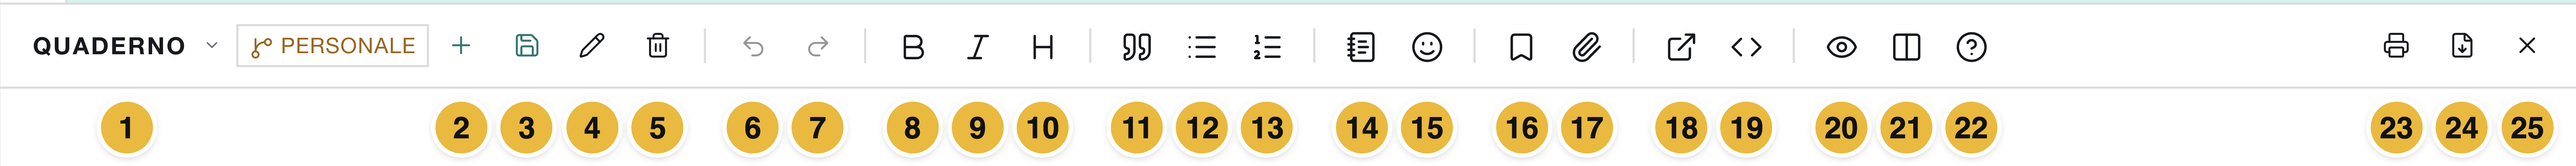
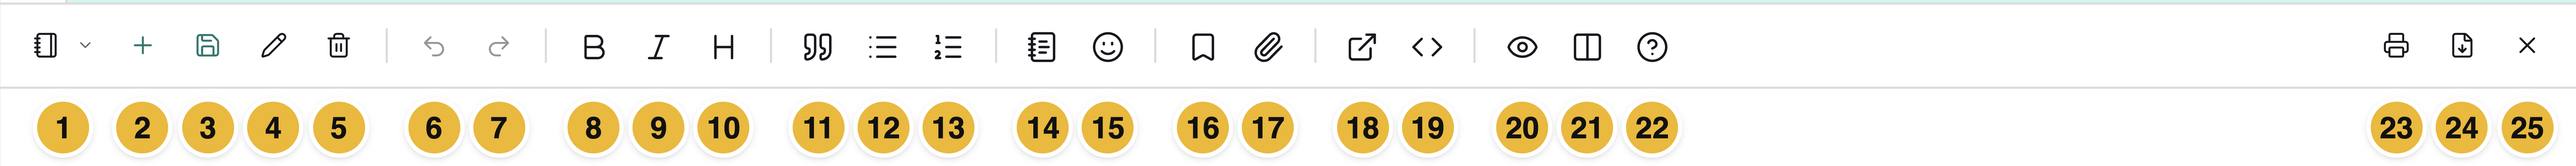
Allinea i comandi e compatta la toolbar degli appunti

diff --git a/App/StudIA.html b/App/StudIA.html
@@ -1286,7 +1286,6 @@
      gli altri e va a capo solo se non ci sta — che è ciò che fa `.tbar`. */
   :is(#noteHost,#noteHost2) .editor-toolbar .notectl{ display:flex; align-items:center; gap:0;
     flex:0 0 auto; min-width:0; }
-  :is(#noteSelect,#noteSelect2){ flex:0 1 auto; min-width:70px; }
   /* Sotto una certa larghezza i separatori sono spazio sprecato. La soglia guarda il
      RIQUADRO, non la finestra: il dock può essere stretto con la finestra larga. */
   :is(#notePane,#notePane2){ container-type:inline-size; container-name:appunti; }
@@ -1296,12 +1295,7 @@
   }
   @container appunti (max-width:360px){
     :is(#noteHost,#noteHost2) .editor-toolbar .notectl .tbsep{ margin:0 .2rem; }   /* riquadro strettissimo: gruppi più fitti */
-    :is(#noteSelect,#noteSelect2){ max-width:120px; }
   }
-  /* Idem: misure dal token. ⚠ Prima questi bottoni erano senza bordo e alti
-     26px, quelli della mappa bordati e alti 30: due barre che fanno lo stesso
-     mestiere e sembravano di due app diverse. */
-  :is(#noteSelect,#noteSelect2){ max-width:clamp(90px,26%,190px); }
   /* l'appunto aperto non è di questo capitolo: dirlo, invece di lasciarlo capire */
   :is(#noteHost,#noteHost2) .editor-toolbar .notectl .nwhere{ font-size:10px; letter-spacing:.04em; white-space:nowrap;
     color:var(--yellow-strong); border:1px solid var(--line); padding:.05rem .3rem; cursor:help;
@@ -9404,7 +9398,7 @@ function tendinaViva(sel, opt){
   if(!sel || sel.dataset.tendina==='1') return;
   var o=opt||{};
   var guscio=document.createElement('span');
-  guscio.className='tendina'+(o.fissa?'':' viva')+(o.piccola?' piccola':'');
+  guscio.className='tendina'+(o.fissa?'':' viva')+(o.piccola?' piccola':'')+(o.icona?' tendina-icona':'');
   var lab=document.createElement('span'); lab.className='tlab';
   sel.parentNode.insertBefore(guscio, sel);
   guscio.appendChild(lab); guscio.appendChild(sel);
@@ -9419,7 +9413,8 @@ function tendinaViva(sel, opt){
        tagliato non direbbe niente.
        Etichetta VIVA: dice che cosa è scelto, e serve dove la tendina è l'unico
        posto in cui lo si legge — la testata di un blocco del banco. */
-    lab.textContent=o.fissa || t;
+    if(o.icona) lab.innerHTML=UiIcone.svg(o.icona);
+    else lab.textContent=o.fissa || t;
     /* Il `title` porta comunque il testo intero: l'etichetta o è fissa o è
        tagliata, e su un nome di mappa lungo il taglio cade quasi sempre dove
        serviva leggere. */
@@ -11181,8 +11176,8 @@ function znavRaccolta(sezione, titolo, voci, vuoto, errore, erroreGruppi){
     }).join('')+'</ul>';
   }
   var h='<section class="zs-raccolta" data-sezione="'+sezione+'"><div class="zs-tit"><button type="button" class="zs-collapse" data-znav="sezione" aria-expanded="'+!chiusa+'" aria-controls="zs-corpo-'+sezione+'" title="'+(chiusa?'Espandi ':'Comprimi ')+titolo+'"><span aria-hidden="true">'+UiIcone.svg(chiusa?'chevron-right':'chevron-down')+'</span><span>'+titolo+'</span><span class="zs-n">'+voci.length+'</span></button><span class="zs-azioni">'+
-    znavComandoHtml('ordina',ZNAV.ordine[sezione]==='az'?'Z–A':'A–Z','Ordina '+(ZNAV.ordine[sezione]==='az'?'Z–A':'A–Z'),'',!modificabile)+
     (edit?znavComandoHtml('crea','+',selezione.length?'Crea gruppo con '+selezione.length+' voci selezionate':'Crea gruppo di '+titolo.toLowerCase(),'data-aiuto="'+znavEsc(aiuto)+'" aria-describedby="znavAiuto"'):'')+
+    znavComandoHtml('ordina',ZNAV.ordine[sezione]==='az'?'Z–A':'A–Z','Ordina '+(ZNAV.ordine[sezione]==='az'?'Z–A':'A–Z'),'',!modificabile)+
     '<button type="button" class="tbtn" data-znav="organizza" title="Organizza '+titolo.toLowerCase()+'" aria-label="Organizza '+titolo.toLowerCase()+'" aria-pressed="'+edit+'"'+(erroreGruppi||errore?' disabled':'')+'>'+UiIcone.svg(edit?'check':'pencil')+'</button></span></div><div class="zs-corpo" id="zs-corpo-'+sezione+'"'+(chiusa?' hidden':'')+'>';
   if(errore) return h+'<div class="zs-vuoto zs-no">'+UiIcone.svg('triangle-alert','Errore di lettura')+' '+znavEsc(errore)+'</div></div></section>';
   if(erroreGruppi) h+='<div class="zs-vuoto zs-no">Organizzazione non leggibile: '+znavEsc(erroreGruppi)+'</div>';
@@ -12196,7 +12191,7 @@ function ensureMde(s){
   var altri=document.createElement('button');altri.type='button';altri.className='tbtn ncb-more no-disable';
   function altriStato(aperti){
     var nome=aperti?'Meno strumenti':'Altri strumenti';
-    altri.innerHTML=UiIcone.svg('chevrons-right')+'<span>'+nome+'</span>';
+    altri.innerHTML=UiIcone.svg('chevrons-right');
     altri.title=nome;altri.setAttribute('aria-label',nome);altri.setAttribute('aria-expanded',String(aperti));
   }
   altriStato(false);
@@ -13492,7 +13487,7 @@ function refreshNoteUI(s){
      quelli del corso, e il nome di quello aperto vive nel `title` e nel testo
      stesso dell'appunto. Un'etichetta viva qui diceva «nessun appunto» a
      schermo, cioè occupava un bottone per annunciare un vuoto. */
-  tendinaViva(sel, { piccola:true, fissa:'Quaderno' });
+  tendinaViva(sel, { piccola:true, fissa:'Quaderno', icona:'notebook' });
   var ctx=curCtx();
   var g=noteGroups(NOTES.list, ctx, s.cur);
   /* Nello zaino «qui» non vuol dire «questo capitolo» ma «questo documento» —
@@ -13523,6 +13518,7 @@ function refreshNoteUI(s){
     sel.value=''; sel.title=NOTES.listError ? ('Lettura degli appunti fallita: '+NOTES.listError)
               : (zaino ? 'Appunti di questo zaino' : 'Appunti di questo capitolo');
   }
+  sel.title='Apri un appunto · '+sel.title;
   // dove sta l'appunto aperto, quando non è di quello che stai leggendo
   var d=noteEl('noteDirty',s); if(d) d.hidden=!s.dirty;
   ['noteSave','noteRen','noteDel','noteStampa','notePdf','noteClose'].forEach(function(id){ var b=noteEl(id,s); if(b) b.disabled=!s.cur; });

diff --git a/test/cdp/prova-toolbar-essenziali.js b/test/cdp/prova-toolbar-essenziali.js
@@ -5,7 +5,7 @@ async function wait(expr){for(let i=0;i<160;i++){if(await c.val(expr))return;awa
 (async()=>{
  await c.collega();await wait(`typeof bancoStato==='function' && !!window.zainoStudio`);
  assert((await c.val('window.vault.path')).includes('studia-zaino-prova-'));
- const prima=await c.val(`({banco:bancoStato(),attivo:BANCO.attivo,tema:document.documentElement.dataset.theme,storage:{...localStorage}})`);
+ const prima=await c.val(`({banco:bancoStato(),attivo:BANCO.attivo,tema:document.documentElement.dataset.theme,organizza:{...ZNAV.organizza},storage:{...localStorage}})`);
  const evFile=path.join(await c.val('window.vault.path'),'Zaini/biologia/APPUNTI/_evidenze.json'),evPrima=fs.existsSync(evFile)?fs.readFileSync(evFile):null;
  try{
   await c.partiPulito();await c.val(`cambiaZaino('storia',true);cambiaZaino('biologia',true);bancoForma('due-col');bancoAssegna('A','fonte');bancoAssegna('C','appunti')`);
@@ -14,6 +14,19 @@ async function wait(expr){for(let i=0;i<160;i++){if(await c.val(expr))return;awa
   await wait(`NOTES.list.length>0 && !!NOTES.mde`);
   const file=await c.val(`NOTES.list[0].file`);await c.val(`noteOpen(${q(file)},NOTES)`);
   const body=await c.val(`NOTES.mde.value()`);assert(body);
+  await c.val(`ZNAV.organizza.fonti=true;ZNAV.organizza.media=true;zainoNavAggiorna()`);
+  await wait(`!!document.querySelector('[data-sezione="fonti"] .zs-tit [data-znav="crea"]')`);
+  assert(await c.val(`['fonti','media'].every(s=>Array.from(document.querySelectorAll('[data-sezione="'+s+'"] .zs-tit .zs-azioni button')).map(b=>b.dataset.znav).join(',')==='crea,ordina,organizza')`),'sidebar: + prima di A–Z, ordinamento accanto alla matita');
+  await c.val(`ZNAV.organizza.fonti=false;ZNAV.organizza.media=false;zainoNavAggiorna()`);
+  const quaderni=await c.val(`(()=>{ensureMde(noteStati()[1]);return ['noteSelect','noteSelect2'].map(id=>{const s=document.getElementById(id),g=s.closest('.tendina');return {id,icona:!!g.querySelector('.tlab svg[data-icona="notebook"]'),testo:g.querySelector('.tlab').textContent,tooltip:g.title,nome:s.getAttribute('aria-label'),select:s.getBoundingClientRect().width,guscio:g.getBoundingClientRect().width};});})()`);
+  assert(quaderni.every(g=>g.icona&&!g.testo.trim()&&g.tooltip.includes('Quaderno')&&g.nome&&g.select<=g.guscio+1),'Quaderno: icona, tooltip e area cliccabile confinata: '+JSON.stringify(quaderni));
+  const layout=await c.val('bancoStato().col');
+  for(const larghezza of [420,280]){
+   await c.val(`BANCO.stato.col=1-${larghezza}/document.getElementById('banco').getBoundingClientRect().width;bancoDisegna()`);await c.pausa(150);
+   assert(await c.val(`(()=>{const b=document.querySelector('#noteHost .ncb-more');return !!b.getClientRects().length&&!!b.querySelector('svg[data-icona="chevrons-right"]')&&getComputedStyle(b.querySelector('svg')).display!=='none'&&!b.textContent.trim()&&b.title==='Altri strumenti'&&b.getAttribute('aria-label')===b.title;})()`),'toolbar a '+larghezza+'px: solo doppio chevron con tooltip');
+  }
+  const compatta=await c.invia('Page.captureScreenshot',{format:'png'});fs.writeFileSync('/tmp/zaino-toolbar-quaderno.png',Buffer.from(compatta.result.data,'base64'));
+  await c.val(`BANCO.stato.col=${q(layout)};bancoDisegna()`);
   assert(await c.val(`['.bold','.italic','.heading','.quote','.unordered-list','.ordered-list','.link','.code','.preview','.side-by-side','.ncb-undo','.ncb-redo','.ncb-callout','.ncb-emoji','.ncb-guida','.ncb-cita','.ncb-mat'].every(sel=>{const b=document.querySelector('#noteHost .editor-toolbar '+sel);return b?.querySelector('svg.ui-icon')&&b.title;})`),'Appunti: tutti i simboli sono SVG con tooltip');
   assert(await c.val(`(()=>{const b=document.querySelector('#noteHost .editor-toolbar .bold');return b.title.startsWith('Grassetto (')&&b.getAttribute('aria-label')===b.title;})()`),'tooltip e nome accessibile in italiano, con scorciatoia');
   assert(await c.val(`!!document.querySelector('#menuBtn img.oi') && !!document.querySelector('#creditsBtn .btn-emoji') && !!document.querySelector('#modoBtn img.oi')`),'fantasma, mago e marchio conservati');
@@ -89,6 +102,6 @@ async function wait(expr){for(let i=0;i<160;i++){if(await c.val(expr))return;awa
   assert.deepEqual(await c.val(`[...document.querySelectorAll('button svg:not(.ui-icon)')].map(s=>s.closest('button').id)`),[],'i simboli dei comandi provengono tutti da Lucide');
  }finally{
   if(evPrima)fs.writeFileSync(evFile,evPrima);else fs.rmSync(evFile,{force:true});
-  await c.val(`document.getElementById('settingsClose').click();if(window.__toolbarFlush)noteFlushStato=window.__toolbarFlush;localStorage.clear();Object.entries(${q(prima.storage)}).forEach(([k,v])=>localStorage.setItem(k,v));EVIDENZE.viste=null;evidenzeCarica();KW.ordine={criterio:'alfa',verso:'asc'};keywordDisegna();BANCO.stato=${q(prima.banco)};BANCO.attivo=${q(prima.attivo)};document.documentElement.dataset.theme=${q(prima.tema)};bancoSalva();bancoDisegna()`);}
+  await c.val(`document.getElementById('settingsClose').click();if(window.__toolbarFlush)noteFlushStato=window.__toolbarFlush;localStorage.clear();Object.entries(${q(prima.storage)}).forEach(([k,v])=>localStorage.setItem(k,v));ZNAV.organizza=${q(prima.organizza)};zainoNavAggiorna();EVIDENZE.viste=null;evidenzeCarica();KW.ordine={criterio:'alfa',verso:'asc'};keywordDisegna();BANCO.stato=${q(prima.banco)};BANCO.attivo=${q(prima.attivo)};document.documentElement.dataset.theme=${q(prima.tema)};bancoSalva();bancoDisegna()`);}
  console.log('toolbar essenziali: trasparenza, chiusura documenti, strumenti e SVG OK');process.exit(0);
 })().catch(e=>{console.error(e);process.exit(1);});

diff --git a/App/guida-zaino/index.html b/App/guida-zaino/index.html
@@ -487,7 +487,7 @@
           <li><strong>Aggiungi parole chiave, ritagli e immagini.</strong> Trascina un chip delle Parole chiave dentro l'appunto. Trascina una scheda dei Ritagli o dell'Album Foto. → <a href="#am-importare">Importare</a></li>
           <li><strong>Rileggi.</strong> Il pulsante <strong>Occhio</strong> (<kbd>⌘J</kbd>) mostra l'appunto come si legge. Il pulsante <strong>Colonne affiancate</strong> (<kbd>F9</kbd>) mette il testo e la lettura uno accanto all'altro. → <a href="#am-anteprima-scrivere">Scrivere nell'anteprima</a></li>
           <li><strong>Controlla il salvataggio.</strong> L’appunto si salva da solo. Leggi gli eventuali avvisi. → <a href="#am-salvataggio">Il salvataggio</a></li>
-          <li><strong>Ritrova un appunto.</strong> La tendina <strong>«QUADERNO ▾»</strong> elenca gli appunti. La lente in alto cerca anche dentro gli appunti. → <a href="#finestra-lente">La lente</a></li>
+          <li><strong>Ritrova un appunto.</strong> Il menu con l’<strong>icona del quaderno</strong> elenca gli appunti. La lente in alto cerca anche dentro gli appunti. → <a href="#finestra-lente">La lente</a></li>
         </ol>
         <div class="tabwrap">
         <table>
@@ -656,7 +656,7 @@
         <h3 id="finestra-paralleli">Due documenti o due appunti insieme</h3>
         <p>Puoi aprire due documenti insieme, oppure due appunti insieme. Scegli <strong>Fonti</strong> (o <strong>Appunti</strong>) nella testata di due blocchi diversi. Poi scegli il file dalla tendina di ciascun blocco. Ogni blocco tiene il suo file e la sua pagina.</p>
         <figure class="fig-intera"><img src="img/187-materiali-paralleli.png" alt="Quattro blocchi con due documenti e due appunti diversi" loading="lazy"><figcaption><b>Quattro materiali insieme.</b> Due documenti e due appunti, ognuno nel suo blocco.</figcaption></figure>
-        <p>I due appunti hanno gli stessi comandi, ma salvataggi e cronologie separati. Clicca nell’appunto che deve ricevere il testo prima di usare «Appunta». Nel menu <strong>Quaderno</strong> puoi scegliere anche un appunto già aperto nell’altro split: la voce «sposta qui» lo trasferisce, lasciando vuoto l’editor di partenza. Testo, cronologia e posizione seguono l’appunto. L’eventuale appunto sostituito viene prima salvato. Una bozza senza nome o un errore di salvataggio fermano il trasferimento.</p>
+        <p>I due appunti hanno gli stessi comandi, ma salvataggi e cronologie separati. Clicca nell’appunto che deve ricevere il testo prima di usare «Appunta». Nel menu <strong>Quaderno</strong>, riconoscibile dall’icona del quaderno, puoi scegliere anche un appunto già aperto nell’altro split: la voce «sposta qui» lo trasferisce, lasciando vuoto l’editor di partenza. Testo, cronologia e posizione seguono l’appunto. L’eventuale appunto sostituito viene prima salvato. Una bozza senza nome o un errore di salvataggio fermano il trasferimento.</p>
 
         <p>La seconda fonte ha pagina e zoom indipendenti. Per evidenziare, annotare o ritagliare usa la prima fonte.</p>
 
@@ -884,13 +884,13 @@
         </div>
 
         <h3 id="str-appunti">Appunti: dove scrivi</h3>
-        <p>Negli split stretti, <strong>Altri strumenti</strong> raccoglie i comandi aggiuntivi. Se lo spazio si riduce ancora, diventa l’icona a doppia freccia <strong>»</strong>, con lo stesso suggerimento al passaggio del mouse. Premi di nuovo, oppure <kbd>Esc</kbd>, per richiudere gli strumenti aggiuntivi.</p>
+        <p>Negli split stretti, l’icona a doppia freccia <strong>»</strong> raccoglie sempre i comandi aggiuntivi. Il suggerimento «Altri strumenti» compare al passaggio del mouse. Premi di nuovo, oppure <kbd>Esc</kbd>, per richiudere gli strumenti aggiuntivi.</p>
         <figure class="fig-intera">
           <img src="img/50-notebar-numerata.png" alt="La barra degli appunti con venticinque comandi numerati" loading="lazy">
           <figcaption><b>La barra degli appunti.</b> Nell'immagine è su una riga sola. In un blocco stretto va a capo.</figcaption>
         </figure>
         <ol class="legenda">
-          <li data-n="1"><strong>«QUADERNO ▾»</strong> — dice quale appunto è aperto. Premilo per aprirne un altro.</li>
+          <li data-n="1"><strong>Quaderno (icona)</strong> — apre l’elenco degli appunti. Il suggerimento mostra il nome; la testata dello split indica l’appunto aperto.</li>
           <li data-n="2"><strong>+</strong> — crea un appunto nuovo.</li>
           <li data-n="3"><strong>Salva</strong> — salva (<kbd>⌘S</kbd>). L'appunto si salva anche da solo.</li>
           <li data-n="4"><strong>Matita</strong> — rinomina l'appunto e cambia il documento a cui appartiene.</li>
@@ -1145,7 +1145,7 @@
         </div>
         <p>C'è anche una scorciatoia. Comincia a scrivere senza creare l'appunto. Alla quinta parola l'app ti chiede il titolo. Quello che hai scritto diventa il testo dell'appunto. ⚠ Se annulli, l'appunto non viene salvato.</p>
 
-        <h3 id="am-tendina">La tendina «QUADERNO ▾»</h3>
+        <h3 id="am-tendina">Il menu Quaderno</h3>
         <figure class="fig-pannello">
           <img src="img/52-tendina-quaderno.png" alt="La tendina degli appunti aperta, con due gruppi" loading="lazy">
           <figcaption><b>La tendina degli appunti.</b> Prima ci sono gli appunti del documento aperto. Poi «Altri appunti dello zaino», con accanto il documento di ciascuno. Nell'immagine la tendina è ridisegnata.</figcaption>

diff --git a/bin/icone-ui.js b/bin/icone-ui.js
@@ -1,7 +1,7 @@
 /* Incorpora solo le icone usate: node bin/icone-ui.js /percorso/lucide-static-1.61.0/package */
 'use strict';
 const fs=require('fs'),path=require('path'),dir=process.argv[2];
-const names=["link", "eye", "eye-off", "pencil", "trash-2", "plus", "minus", "x", "chevron-left", "chevron-right", "chevron-up", "chevron-down", "calendar-days", "search", "scissors", "layers", "ruler", "palette", "play", "square", "printer", "file-down", "undo-2", "redo-2", "settings", "maximize", "move-horizontal", "arrow-down", "arrow-right", "network", "list-filter", "scan-text", "panel-top", "panels-top-left", "route", "maximize-2", "list-tree", "pause", "rotate-ccw", "check", "circle-check", "circle-x", "target", "graduation-cap", "lightbulb", "star", "book-open", "brain", "volume-2", "type", "import", "download", "library", "sun", "moon", "message-square", "columns-2", "save", "smile", "quote", "bookmark", "paperclip", "bold", "italic", "heading", "list", "list-ordered", "code", "help-circle", "chevrons-left", "chevrons-right", "music", "video", "image", "file-text", "arrow-up", "copy", "git-branch", "notebook-pen", "notebook-text", "lock-keyhole", "unlock-keyhole", "circle-alert", "triangle-alert", "info", "puzzle", "list-todo", "eraser", "highlighter", "underline", "pilcrow", "external-link", "chart-column", "refresh-cw", "panel-left", "panel-left-close", "panel-left-open", "zoom-in", "zoom-out", "chevron-last", "chevron-first"];
+const names=["link", "eye", "eye-off", "pencil", "trash-2", "plus", "minus", "x", "chevron-left", "chevron-right", "chevron-up", "chevron-down", "calendar-days", "search", "scissors", "layers", "ruler", "palette", "play", "square", "printer", "file-down", "undo-2", "redo-2", "settings", "maximize", "move-horizontal", "arrow-down", "arrow-right", "network", "list-filter", "scan-text", "panel-top", "panels-top-left", "route", "maximize-2", "list-tree", "pause", "rotate-ccw", "check", "circle-check", "circle-x", "target", "graduation-cap", "lightbulb", "star", "book-open", "brain", "volume-2", "type", "import", "download", "library", "sun", "moon", "message-square", "columns-2", "save", "smile", "quote", "bookmark", "paperclip", "bold", "italic", "heading", "list", "list-ordered", "code", "help-circle", "chevrons-left", "chevrons-right", "music", "video", "image", "file-text", "arrow-up", "copy", "git-branch", "notebook-pen", "notebook-text", "notebook", "lock-keyhole", "unlock-keyhole", "circle-alert", "triangle-alert", "info", "puzzle", "list-todo", "eraser", "highlighter", "underline", "pilcrow", "external-link", "chart-column", "refresh-cw", "panel-left", "panel-left-close", "panel-left-open", "zoom-in", "zoom-out", "chevron-last", "chevron-first"];
 const dati=Object.fromEntries(names.map(n=>[n,fs.readFileSync(path.join(dir,'icons',n+'.svg'),'utf8').replace(/^[\s\S]*?<svg[^>]*>/,'').replace(/<\/svg>\s*$/,'').trim()]));
 const helper=`
  function attributo(t){return String(t).replace(/[&<>"']/g,function(c){return {'&':'&amp;','<':'&lt;','>':'&gt;','"':'&quot;',"'":'&#39;'}[c];});}

diff --git a/App/guida-zaino/_lab/quaderno-compatto.js b/App/guida-zaino/_lab/quaderno-compatto.js
@@ -1,0 +1,17 @@
+'use strict';
+// Solo dati dimostrativi nel laboratorio: nessun appunto personale.
+const L=require('./lab'),fs=require('node:fs'),assert=require('node:assert/strict'),barre=require('./barre');
+(async()=>{
+ await L.collega();const vault=process.env.GUIDA_VAULT;
+ assert(vault&&fs.realpathSync(vault).startsWith('/private/tmp/studia-guida-'));
+ assert.equal(await L.val('window.vault.path'),vault);
+ await L.pulito();await L.invia('Emulation.setDeviceMetricsOverride',{width:1470,height:956,deviceScaleFactor:2,mobile:false});
+ await L.val(`bancoZoomTorna();cambiaZaino('biologia');document.documentElement.dataset.theme='chiaro';bancoForma('uno');bancoAssegna('A','appunti');notesApi().save('biologia',null,{title:'Botanica — appunti',materiale:'01 Botanica.pdf'},'Osservazioni sulle piante.');notesReload();noteOpen(NOTES.list.find(n=>!n.materiale).file,NOTES)`);
+ assert(await L.finoA(`!!NOTES.cur && !!document.querySelector('#noteSelect').closest('.tendina').querySelector('[data-icona="notebook"]')`,10000));
+ await L.pausa(600);await L.muovi(10,940);await barre.appunti(L);
+ await L.tendinaFinta('#noteSelect',{largh:320,allinea:'sinistra'});const nt=await L.rect('#noteHost .notectl .tendina');
+ await L.scatta('52-tendina-quaderno',{clip:{x:nt.x-10,y:nt.y-8,width:520,height:300},scala:2});await L.overlayPulisci();
+ await L.val(`bancoForma('due-col');bancoAssegna('A','fonte');bancoAssegna('C','appunti');closeEditor(NOTES);document.getElementById('pdfClose').click()`);await L.pausa(600);await L.muovi(10,940);
+ const area=await L.rect('#pdfPane');await L.scatta('204-strumenti-senza-documenti',{clip:{x:0,y:area.y-35,width:1470,height:290},scala:2});
+ console.log('Quaderno SVG, menu e stato vuoto acquisiti.');process.exit(0);
+})().catch(e=>{console.error(e);process.exit(1);});

diff --git a/App/assets/interfaccia/icone.js b/App/assets/interfaccia/icone.js
@@ -81,6 +81,7 @@
  "git-branch": "<path d=\"M15 6a9 9 0 0 0-9 9V3\" />\n  <circle cx=\"18\" cy=\"6\" r=\"3\" />\n  <circle cx=\"6\" cy=\"18\" r=\"3\" />",
  "notebook-pen": "<path d=\"M13.4 2H6a2 2 0 0 0-2 2v16a2 2 0 0 0 2 2h12a2 2 0 0 0 2-2v-7.4\" />\n  <path d=\"M2 6h4\" />\n  <path d=\"M2 10h4\" />\n  <path d=\"M2 14h4\" />\n  <path d=\"M2 18h4\" />\n  <path d=\"M21.378 5.626a1 1 0 1 0-3.004-3.004l-5.01 5.012a2 2 0 0 0-.506.854l-.837 2.87a.5.5 0 0 0 .62.62l2.87-.837a2 2 0 0 0 .854-.506z\" />",
  "notebook-text": "<path d=\"M2 6h4\" />\n  <path d=\"M2 10h4\" />\n  <path d=\"M2 14h4\" />\n  <path d=\"M2 18h4\" />\n  <rect width=\"16\" height=\"20\" x=\"4\" y=\"2\" rx=\"2\" />\n  <path d=\"M9.5 8h5\" />\n  <path d=\"M9.5 12H16\" />\n  <path d=\"M9.5 16H14\" />",
+ "notebook": "<path d=\"M2 6h4\" />\n  <path d=\"M2 10h4\" />\n  <path d=\"M2 14h4\" />\n  <path d=\"M2 18h4\" />\n  <rect width=\"16\" height=\"20\" x=\"4\" y=\"2\" rx=\"2\" />\n  <path d=\"M16 2v20\" />",
  "lock-keyhole": "<circle cx=\"12\" cy=\"16\" r=\"1\" />\n  <rect x=\"3\" y=\"10\" width=\"18\" height=\"12\" rx=\"2\" />\n  <path d=\"M7 10V7a5 5 0 0 1 10 0v3\" />",
  "unlock-keyhole": "<circle cx=\"12\" cy=\"16\" r=\"1\" />\n  <rect width=\"18\" height=\"12\" x=\"3\" y=\"10\" rx=\"2\" />\n  <path d=\"M7 10V7a5 5 0 0 1 9.33-2.5\" />",
  "circle-alert": "<circle cx=\"12\" cy=\"12\" r=\"10\" />\n  <line x1=\"12\" x2=\"12\" y1=\"8\" y2=\"12\" />\n  <line x1=\"12\" x2=\"12.01\" y1=\"16\" y2=\"16\" />",

diff --git a/test/cdp/prova-spostamento-split.js b/test/cdp/prova-spostamento-split.js
@@ -54,7 +54,7 @@ async function trascina(da,a){
   console.log('  ok  drag nativo, dimensioni della destinazione, tastiera e annullamento');
 
   await c.val(`BANCO.stato.col=.25;bancoSalva();bancoDisegna()`);await c.pausa(250);
-  assert(await c.val(`(()=>{const b=document.querySelector('#noteHost .ncb-more');return !!b.getClientRects().length&&!!b.querySelector('svg[data-icona="chevrons-right"]')&&getComputedStyle(b.querySelector('span')).display==='none'&&b.title==='Altri strumenti';})()`),'toolbar stretta: doppio chevron SVG, tooltip e testo nascosto');
+  assert(await c.val(`(()=>{const b=document.querySelector('#noteHost .ncb-more');return !!b.getClientRects().length&&!!b.querySelector('svg[data-icona="chevrons-right"]')&&!b.textContent.trim()&&b.title==='Altri strumenti';})()`),'toolbar stretta: doppio chevron SVG, tooltip e testo nascosto');
   await c.clicca('#noteHost .ncb-more');assert.equal(await c.val(`document.querySelector('#noteHost .ncb-more').getAttribute('aria-expanded')`),'true');
   const immagine=await c.invia('Page.captureScreenshot',{format:'png'});fs.writeFileSync('/tmp/zaino-spostamento-toolbar.png',Buffer.from(immagine.result.data,'base64'));
   await c.val(`document.querySelector('#noteHost .ncb-more').dispatchEvent(new KeyboardEvent('keydown',{key:'Escape',bubbles:true}))`);

diff --git a/test/cdp/prova-chat-zaino.js b/test/cdp/prova-chat-zaino.js
@@ -12,7 +12,9 @@ async function click(sel){
  // una corsa su otto moriva in `null.scrollIntoView` o in un'attesa scaduta su
  // `NOTES.mde`, cioè dicendo un sintomo diverso dalla stessa causa. La guardia
  // sta QUI e non sulla singola chiamata: i click di questa prova sono venti.
- await aspetta(`!!document.querySelector(${JSON.stringify(sel)})`);
+ // Lo streaming può già mostrare la risposta mentre i suoi comandi sono ancora
+ // disabilitati. Un click in quel momento non parte e sporca le prove successive.
+ await aspetta(`(()=>{const b=document.querySelector(${JSON.stringify(sel)});return !!b&&!b.disabled;})()`);
  const dove=()=>c.val(`(()=>{const e=document.querySelector(${JSON.stringify(sel)});if(!e)return '';const r=e.getBoundingClientRect();return [Math.round(r.top),Math.round(r.left),Math.round(r.height)].join(',');})()`);
  for(let i=0,prima=await dove();i<25;i++){await c.pausa(100);const ora=await dove();if(ora&&ora===prima)break;prima=ora;}
  await c.val(`document.querySelector(${JSON.stringify(sel)}).scrollIntoView({block:'center'})`);await c.pausa(80);return c.clicca(sel);}

diff --git a/App/assets/chat/ui.css b/App/assets/chat/ui.css
@@ -254,14 +254,10 @@
 #bAttivita { display:flex; flex-direction:column; align-items:stretch; padding-bottom:.6rem; border-bottom:1px solid var(--line); margin-bottom:.6rem; }
 #bAttivita .tbtn { text-align:left; }
 .editor-toolbar .ncb-more { display:none; }
-.editor-toolbar .ncb-more .ui-icon { display:none; }
+.tendina-icona .tlab { display:flex; align-items:center; }
 @container (max-width:480px) {
  .editor-toolbar .ncb-more { display:inline-flex; }
  .editor-toolbar:not(.strumenti-aperti) :is(.heading,.unordered-list,.ordered-list,.ncb-callout,.ncb-emoji,.ncb-mat,.link,.code,.side-by-side,.ncb-guida,.separator) { display:none!important; }
-}
-@container appunti (max-width:360px) {
- .editor-toolbar .ncb-more span { display:none; }
- .editor-toolbar .ncb-more .ui-icon { display:block; }
 }
 
 .zstudio .zchat-hint { font-size:max(12px,calc(var(--fs) * .75)); line-height:1.5; }
